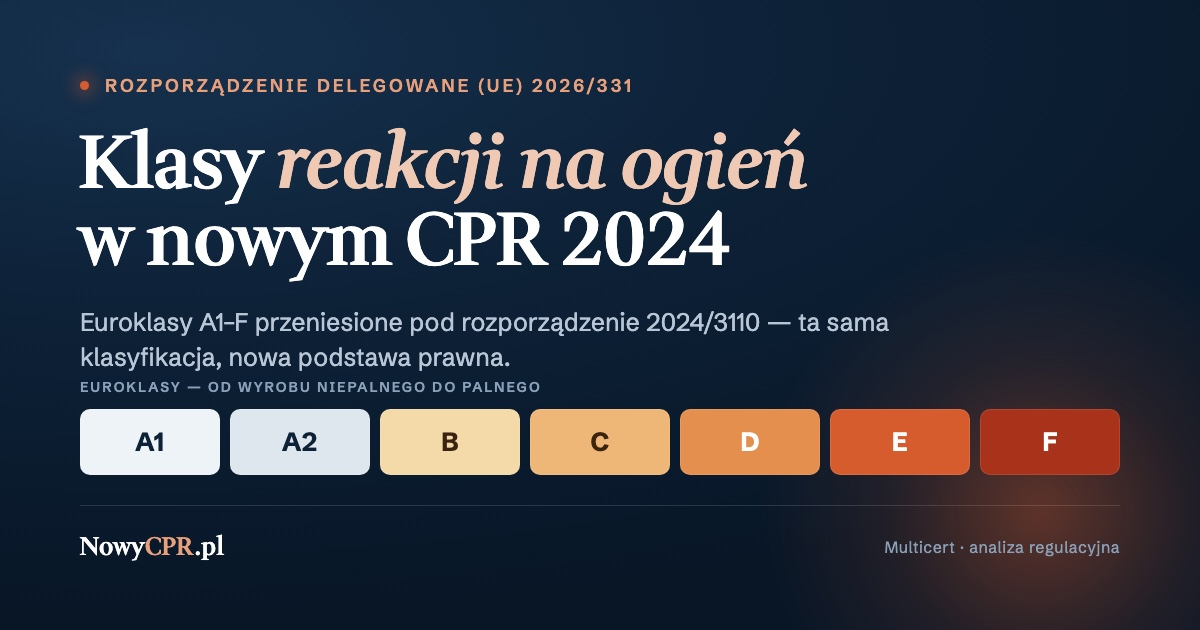
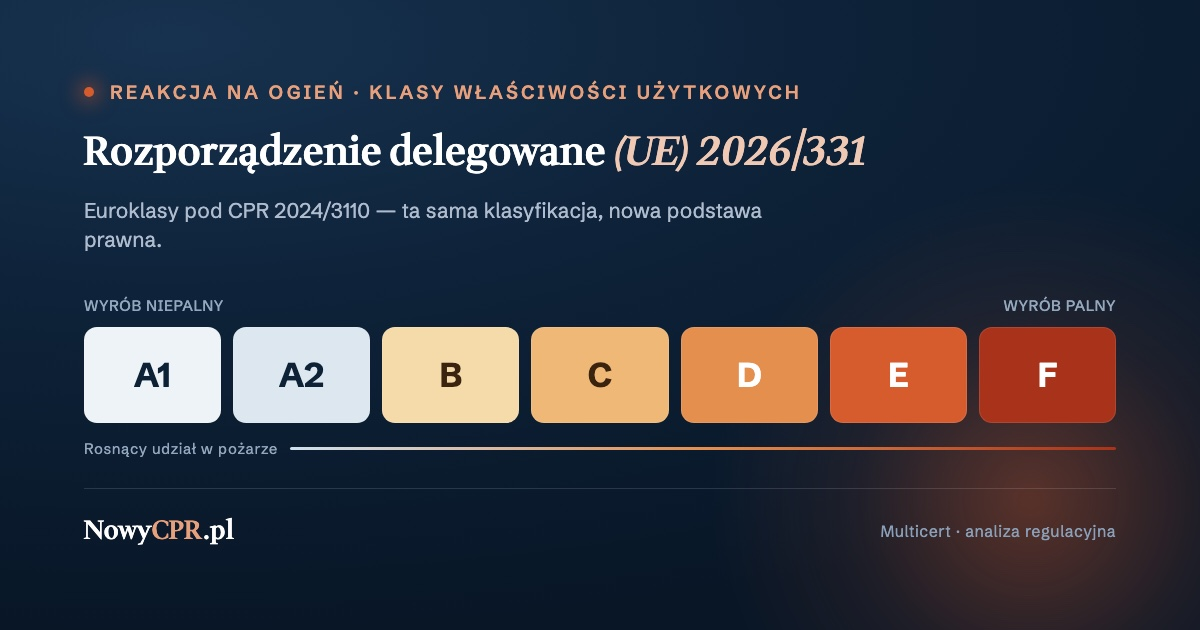
blog: pokaż okładkę jako widoczny obraz pod hero (wszystkie posty)
Hero chowało image_url jako tło pod granatowym overlayem 55-92% —
grafika była niewidoczna. Teraz: czysty navy hero + tytuł, a pod nim
pełny, widoczny obraz okładki (ring + shadow). Dotyczy wszystkich
szablonów (SharedHero).

Okładka posta o ogniu przeprojektowana bez własnego tytułu (był
dublowany z H1): brandowa infografika ze skalą Euroklas A1–F.

diff --git a/src/pages/BlogPost.tsx b/src/pages/BlogPost.tsx
@@ -645,28 +645,6 @@ function SharedHero({
       className="relative pt-14 pb-10 md:pt-16 md:pb-12 overflow-hidden"
       style={{ backgroundColor: "oklch(20% .03 264)" }}
     >
-      {/* Photo background */}
-      {post.image_url && (
-        <div
-          className="absolute inset-0"
-          style={{
-            backgroundImage: `url('${post.image_url}')`,
-            backgroundSize: "cover",
-            backgroundPosition: "center",
-          }}
-        />
-      )}
-      {/* Dark overlay — readability */}
-      {post.image_url && (
-        <div
-          className="absolute inset-0"
-          style={{
-            background:
-              "linear-gradient(to bottom, oklch(20% .03 264 / 0.55) 0%, oklch(20% .03 264 / 0.92) 100%)",
-          }}
-        />
-      )}
-
       {/* Masthead rules — white on dark */}
 
       <div className="relative z-10 max-w-6xl mx-auto px-4 sm:px-6">
@@ -704,6 +682,18 @@ function SharedHero({
           </span>
         </div>
       </div>
+
+      {/* Featured cover image — pełny, widoczny pod tytułem */}
+      {post.image_url && (
+        <div className="relative z-10 max-w-6xl mx-auto px-4 sm:px-6 mt-8 md:mt-10">
+          <img
+            src={post.image_url}
+            alt={post.title}
+            className="w-full rounded-2xl ring-1 ring-white/15 shadow-2xl"
+            loading="eager"
+          />
+        </div>
+      )}
 
       {/* Scroll hint — brand-red indicator */}
       <div className="absolute bottom-4 left-1/2 -translate-x-1/2 z-10 flex flex-col items-center gap-1.5 animate-pulse">
